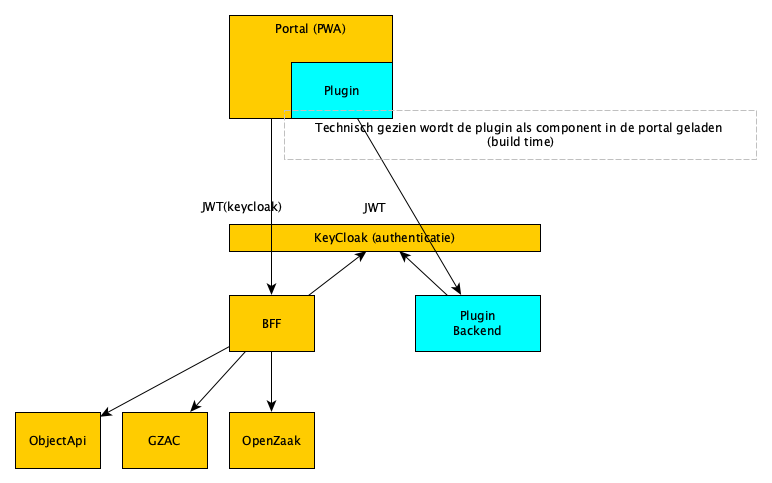
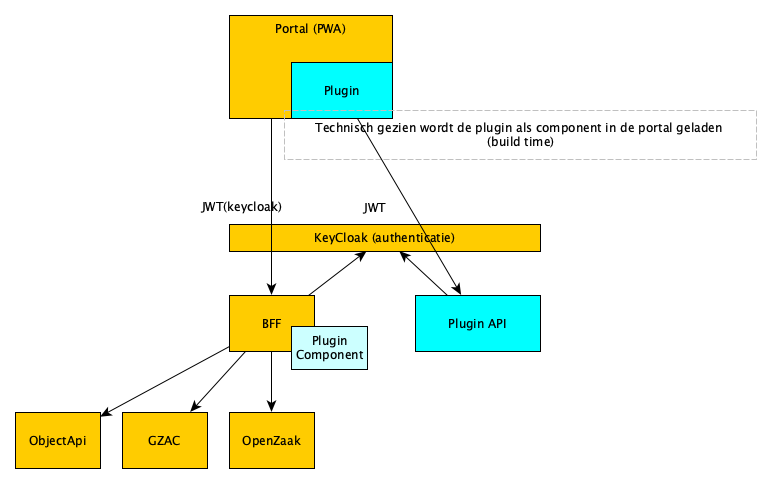
no message

Changed region(s): [[0.3731, 0.6522, 0.4974, 0.7764], [0.5596, 0.6211, 0.6528, 0.7143]]

diff --git a/architectuur/plugins.rst b/architectuur/plugins.rst
@@ -8,7 +8,9 @@ Plugins in de portal
 
 De :ref:`portal` bevat standaard functionaliteiten met betrekking tot zaken, producten en andere zgw standaarden. Natuurlijk is het mogelijk dat er andere functionaliteiten in de portal verwerkt moeten worden.
 
-Dit kan door in de react app aparte componenten mee te bouwen in de frontend code. Het backend component van de plugin moet als aparte container deployed worden.
+Dit kan door in de react app aparte componenten mee te bouwen in de frontend code. 
+
+Voor het backend zijn 2 mogelijkheden, of de plugin heeft zijn eigen backend api, of de plugin wordt gebundeld in de BFF. Het laatste scenario is een experimentele feature.
 
 .. image:: /images/yed/plugin.png
    :alt: Visuele weergave componenten
